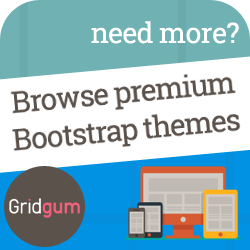
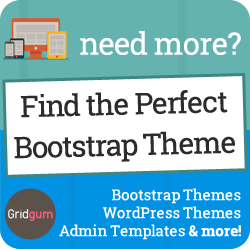
update sponsor to gridgum

diff --git a/index.html b/index.html
@@ -101,7 +101,7 @@
             <div class="row">
               <div class="col-md-6 col-md-offset-3">
                 <div class="sponsor">
-                  <a href="http://www.shopify.com/?ref=bootswatch" target="_blank" onclick="_gaq.push(['_trackEvent', 'banner', 'click', 'shopify']);"><img src="assets/img/shopify.png" alt="Shopify" onload="_gaq.push(['_trackEvent', 'banner', 'impression', 'shopify']);"></a>
+                  <a href="http://gridgum.com/themes/category/bootstrap-themes/?utm_source=Bootswatch&utm_medium=250ad&utm_campaign=Bootswatch%20Campaign" target="_blank" onclick="_gaq.push(['_trackEvent', 'banner', 'click', 'gridgum']);"><img src="assets/img/gridgum.png" alt="Gridgum" onload="_gaq.push(['_trackEvent', 'banner', 'impression', 'gridgum']);"></a>
                 </div>
               </div>
             </div>

diff --git a/cerulean/index.html b/cerulean/index.html
@@ -101,7 +101,7 @@
           </div>
           <div class="col-lg-4 col-md-5 col-sm-6">
             <div class="sponsor">
-              <a href="http://www.shopify.com/?ref=bootswatch" target="_blank" onclick="_gaq.push(['_trackEvent', 'banner', 'click', 'shopify']);"><img src="../assets/img/shopify.png" alt="Shopify" onload="_gaq.push(['_trackEvent', 'banner', 'impression', 'shopify']);"></a>
+              <a href="http://gridgum.com/themes/category/bootstrap-themes/?utm_source=Bootswatch&utm_medium=250ad&utm_campaign=Bootswatch%20Campaign" target="_blank" onclick="_gaq.push(['_trackEvent', 'banner', 'click', 'gridgum']);"><img src="../assets/img/gridgum.png" alt="Gridgum" onload="_gaq.push(['_trackEvent', 'banner', 'impression', 'gridgum']);"></a>
             </div>
           </div>
         </div>

diff --git a/cosmo/index.html b/cosmo/index.html
@@ -101,7 +101,7 @@
           </div>
           <div class="col-lg-4 col-md-5 col-sm-6">
             <div class="sponsor">
-              <a href="http://www.shopify.com/?ref=bootswatch" target="_blank" onclick="_gaq.push(['_trackEvent', 'banner', 'click', 'shopify']);"><img src="../assets/img/shopify.png" alt="Shopify" onload="_gaq.push(['_trackEvent', 'banner', 'impression', 'shopify']);"></a>
+              <a href="http://gridgum.com/themes/category/bootstrap-themes/?utm_source=Bootswatch&utm_medium=250ad&utm_campaign=Bootswatch%20Campaign" target="_blank" onclick="_gaq.push(['_trackEvent', 'banner', 'click', 'gridgum']);"><img src="../assets/img/gridgum.png" alt="Gridgum" onload="_gaq.push(['_trackEvent', 'banner', 'impression', 'gridgum']);"></a>
             </div>
           </div>
         </div>

diff --git a/custom/index.html b/custom/index.html
@@ -101,7 +101,7 @@
           </div>
           <div class="col-lg-4 col-md-5 col-sm-6">
             <div class="sponsor">
-              <a href="http://www.shopify.com/?ref=bootswatch" target="_blank" onclick="_gaq.push(['_trackEvent', 'banner', 'click', 'shopify']);"><img src="../assets/img/shopify.png" alt="Shopify" onload="_gaq.push(['_trackEvent', 'banner', 'impression', 'shopify']);"></a>
+              <a href="http://gridgum.com/themes/category/bootstrap-themes/?utm_source=Bootswatch&utm_medium=250ad&utm_campaign=Bootswatch%20Campaign" target="_blank" onclick="_gaq.push(['_trackEvent', 'banner', 'click', 'gridgum']);"><img src="../assets/img/gridgum.png" alt="Gridgum" onload="_gaq.push(['_trackEvent', 'banner', 'impression', 'gridgum']);"></a>
             </div>
           </div>
         </div>

diff --git a/cyborg/index.html b/cyborg/index.html
@@ -101,7 +101,7 @@
           </div>
           <div class="col-lg-4 col-md-5 col-sm-6">
             <div class="sponsor">
-              <a href="http://www.shopify.com/?ref=bootswatch" target="_blank" onclick="_gaq.push(['_trackEvent', 'banner', 'click', 'shopify']);"><img src="../assets/img/shopify.png" alt="Shopify" onload="_gaq.push(['_trackEvent', 'banner', 'impression', 'shopify']);"></a>
+              <a href="http://gridgum.com/themes/category/bootstrap-themes/?utm_source=Bootswatch&utm_medium=250ad&utm_campaign=Bootswatch%20Campaign" target="_blank" onclick="_gaq.push(['_trackEvent', 'banner', 'click', 'gridgum']);"><img src="../assets/img/gridgum.png" alt="Gridgum" onload="_gaq.push(['_trackEvent', 'banner', 'impression', 'gridgum']);"></a>
             </div>
           </div>
         </div>

diff --git a/darkly/index.html b/darkly/index.html
@@ -101,7 +101,7 @@
           </div>
           <div class="col-lg-4 col-md-5 col-sm-6">
             <div class="sponsor">
-              <a href="http://www.shopify.com/?ref=bootswatch" target="_blank" onclick="_gaq.push(['_trackEvent', 'banner', 'click', 'shopify']);"><img src="../assets/img/shopify.png" alt="Shopify" onload="_gaq.push(['_trackEvent', 'banner', 'impression', 'shopify']);"></a>
+              <a href="http://gridgum.com/themes/category/bootstrap-themes/?utm_source=Bootswatch&utm_medium=250ad&utm_campaign=Bootswatch%20Campaign" target="_blank" onclick="_gaq.push(['_trackEvent', 'banner', 'click', 'gridgum']);"><img src="../assets/img/gridgum.png" alt="Gridgum" onload="_gaq.push(['_trackEvent', 'banner', 'impression', 'gridgum']);"></a>
             </div>
           </div>
         </div>

diff --git a/flatly/index.html b/flatly/index.html
@@ -101,7 +101,7 @@
           </div>
           <div class="col-lg-4 col-md-5 col-sm-6">
             <div class="sponsor">
-              <a href="http://www.shopify.com/?ref=bootswatch" target="_blank" onclick="_gaq.push(['_trackEvent', 'banner', 'click', 'shopify']);"><img src="../assets/img/shopify.png" alt="Shopify" onload="_gaq.push(['_trackEvent', 'banner', 'impression', 'shopify']);"></a>
+              <a href="http://gridgum.com/themes/category/bootstrap-themes/?utm_source=Bootswatch&utm_medium=250ad&utm_campaign=Bootswatch%20Campaign" target="_blank" onclick="_gaq.push(['_trackEvent', 'banner', 'click', 'gridgum']);"><img src="../assets/img/gridgum.png" alt="Gridgum" onload="_gaq.push(['_trackEvent', 'banner', 'impression', 'gridgum']);"></a>
             </div>
           </div>
         </div>

diff --git a/journal/index.html b/journal/index.html
@@ -101,7 +101,7 @@
           </div>
           <div class="col-lg-4 col-md-5 col-sm-6">
             <div class="sponsor">
-              <a href="http://www.shopify.com/?ref=bootswatch" target="_blank" onclick="_gaq.push(['_trackEvent', 'banner', 'click', 'shopify']);"><img src="../assets/img/shopify.png" alt="Shopify" onload="_gaq.push(['_trackEvent', 'banner', 'impression', 'shopify']);"></a>
+              <a href="http://gridgum.com/themes/category/bootstrap-themes/?utm_source=Bootswatch&utm_medium=250ad&utm_campaign=Bootswatch%20Campaign" target="_blank" onclick="_gaq.push(['_trackEvent', 'banner', 'click', 'gridgum']);"><img src="../assets/img/gridgum.png" alt="Gridgum" onload="_gaq.push(['_trackEvent', 'banner', 'impression', 'gridgum']);"></a>
             </div>
           </div>
         </div>

diff --git a/lumen/index.html b/lumen/index.html
@@ -101,7 +101,7 @@
           </div>
           <div class="col-lg-4 col-md-5 col-sm-6">
             <div class="sponsor">
-              <a href="http://www.shopify.com/?ref=bootswatch" target="_blank" onclick="_gaq.push(['_trackEvent', 'banner', 'click', 'shopify']);"><img src="../assets/img/shopify.png" alt="Shopify" onload="_gaq.push(['_trackEvent', 'banner', 'impression', 'shopify']);"></a>
+              <a href="http://gridgum.com/themes/category/bootstrap-themes/?utm_source=Bootswatch&utm_medium=250ad&utm_campaign=Bootswatch%20Campaign" target="_blank" onclick="_gaq.push(['_trackEvent', 'banner', 'click', 'gridgum']);"><img src="../assets/img/gridgum.png" alt="Gridgum" onload="_gaq.push(['_trackEvent', 'banner', 'impression', 'gridgum']);"></a>
             </div>
           </div>
         </div>

diff --git a/paper/index.html b/paper/index.html
@@ -101,7 +101,7 @@
           </div>
           <div class="col-lg-4 col-md-5 col-sm-6">
             <div class="sponsor">
-              <a href="http://www.shopify.com/?ref=bootswatch" target="_blank" onclick="_gaq.push(['_trackEvent', 'banner', 'click', 'shopify']);"><img src="../assets/img/shopify.png" alt="Shopify" onload="_gaq.push(['_trackEvent', 'banner', 'impression', 'shopify']);"></a>
+              <a href="http://gridgum.com/themes/category/bootstrap-themes/?utm_source=Bootswatch&utm_medium=250ad&utm_campaign=Bootswatch%20Campaign" target="_blank" onclick="_gaq.push(['_trackEvent', 'banner', 'click', 'gridgum']);"><img src="../assets/img/gridgum.png" alt="Gridgum" onload="_gaq.push(['_trackEvent', 'banner', 'impression', 'gridgum']);"></a>
             </div>
           </div>
         </div>

diff --git a/readable/index.html b/readable/index.html
@@ -101,7 +101,7 @@
           </div>
           <div class="col-lg-4 col-md-5 col-sm-6">
             <div class="sponsor">
-              <a href="http://www.shopify.com/?ref=bootswatch" target="_blank" onclick="_gaq.push(['_trackEvent', 'banner', 'click', 'shopify']);"><img src="../assets/img/shopify.png" alt="Shopify" onload="_gaq.push(['_trackEvent', 'banner', 'impression', 'shopify']);"></a>
+              <a href="http://gridgum.com/themes/category/bootstrap-themes/?utm_source=Bootswatch&utm_medium=250ad&utm_campaign=Bootswatch%20Campaign" target="_blank" onclick="_gaq.push(['_trackEvent', 'banner', 'click', 'gridgum']);"><img src="../assets/img/gridgum.png" alt="Gridgum" onload="_gaq.push(['_trackEvent', 'banner', 'impression', 'gridgum']);"></a>
             </div>
           </div>
         </div>

diff --git a/sandstone/index.html b/sandstone/index.html
@@ -101,7 +101,7 @@
           </div>
           <div class="col-lg-4 col-md-5 col-sm-6">
             <div class="sponsor">
-              <a href="http://www.shopify.com/?ref=bootswatch" target="_blank" onclick="_gaq.push(['_trackEvent', 'banner', 'click', 'shopify']);"><img src="../assets/img/shopify.png" alt="Shopify" onload="_gaq.push(['_trackEvent', 'banner', 'impression', 'shopify']);"></a>
+              <a href="http://gridgum.com/themes/category/bootstrap-themes/?utm_source=Bootswatch&utm_medium=250ad&utm_campaign=Bootswatch%20Campaign" target="_blank" onclick="_gaq.push(['_trackEvent', 'banner', 'click', 'gridgum']);"><img src="../assets/img/gridgum.png" alt="Gridgum" onload="_gaq.push(['_trackEvent', 'banner', 'impression', 'gridgum']);"></a>
             </div>
           </div>
         </div>
